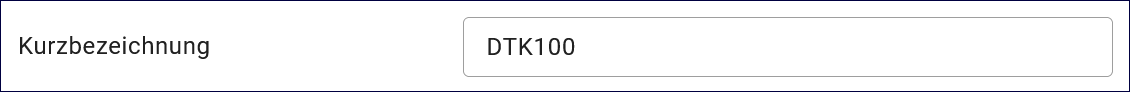
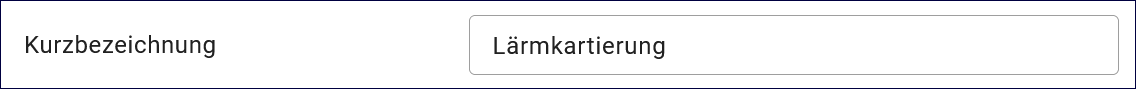
Aktualisierung

diff --git a/docs/ingrid-editor/erfassung/erfassung-metadaten.rst b/docs/ingrid-editor/erfassung/erfassung-metadaten.rst
@@ -196,12 +196,20 @@ Abb.: Kurzbezeichnung
 
 Angabe einer Kurzbezeichnung für ein Objekt.
 
-.. figure:: ../../img/ige/erfassung/ige_metadaten/abschnitt-02_allgemeines/bkg-mis.png
+.. figure:: ../../img/ige/erfassung/ige_metadaten/abschnitt-02_allgemeines/titel.png
    :align: left
    :scale: 50
    :figwidth: 100%
 
-Abb.: Beispiel - Kurzbezeichnung BKG-MIS
+Abb.: Beispiel in METAVER - Titel
+
+.. figure:: ../../img/ige/erfassung/ige_metadaten/abschnitt-02_allgemeines/kurzbezeichnung_beispiel.png
+   :align: left
+   :scale: 50
+   :figwidth: 100%
+
+Abb.: Beispiel in METAVER - Kurzbezeichnung
+
 
 
 
